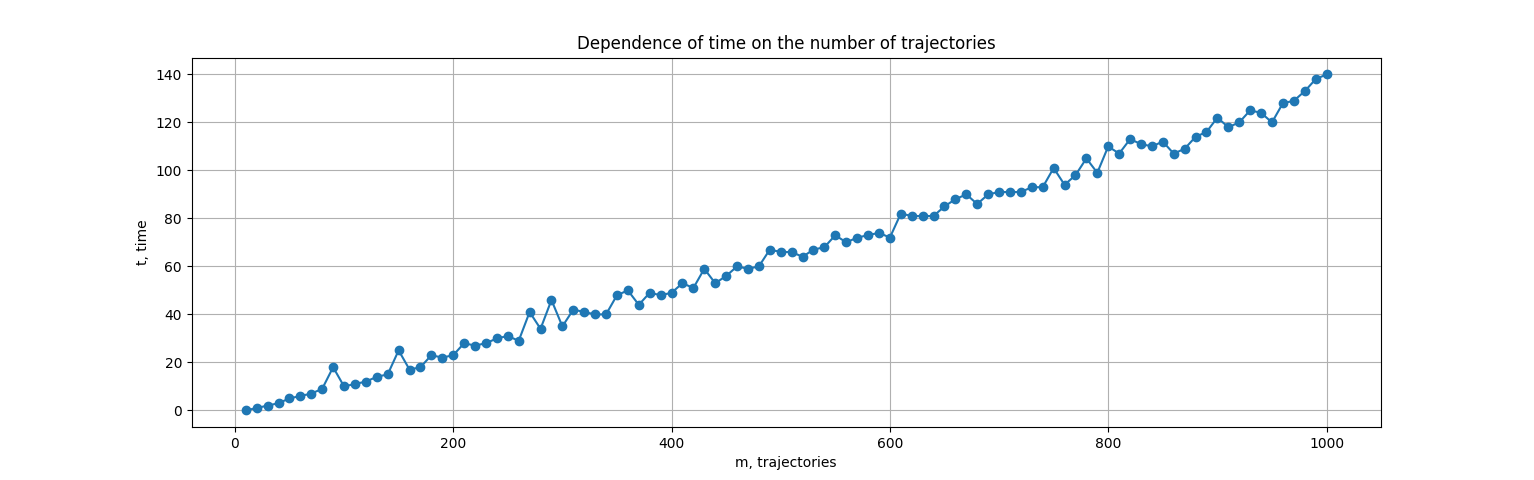
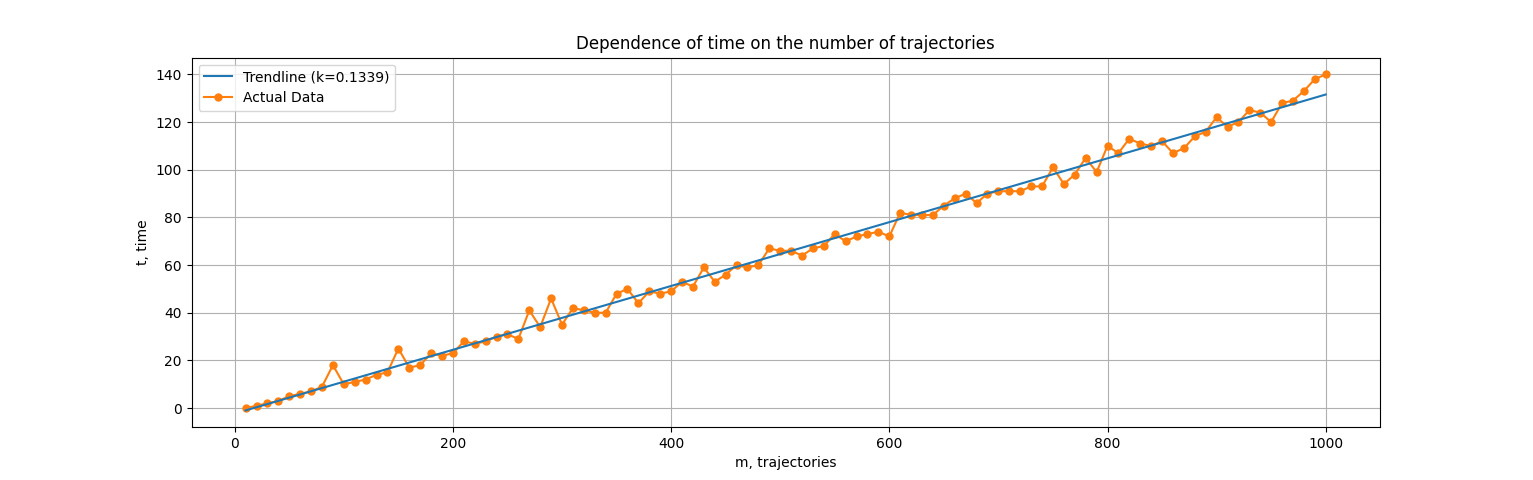
внес правки в анализ зависимости времени от числа траекторий

diff --git a/Time/main.py b/Time/main.py
@@ -1,7 +1,8 @@
 import json
 import matplotlib.pyplot as plt
+import numpy as np
 
-json_file_path = "C:\Qt\Projects\CIR\Data\Plots\RK3\\time.json"
+json_file_path = r"C:\Qt\Projects\CIR\Data\Plots\TeylorMethod\time.json"
 
 with open(json_file_path, 'r') as file:
     data = json.load(file)
@@ -10,9 +11,20 @@ with open(json_file_path, 'r') as file:
 iterations = [result["numberOfIterations"] for result in results]
 elapsed_times = [result["elapsedTime"] for result in results]
 
-plt.plot(iterations, elapsed_times, marker='o', linestyle='-')
+# линейная аппроксимация
+coefficients = np.polyfit(iterations, elapsed_times, 1)
+polynomial = np.poly1d(coefficients)
+
+# угловой коэффициент
+k = coefficients[0]
+print(f"Угловой коэффициент (k): {k}")
+
+plt.plot(iterations, polynomial(iterations), linestyle='-', label=f'Trendline (k={k:.4f})', zorder=99)
+plt.plot(iterations, elapsed_times, marker='o', markersize=5, linestyle='-', label='Actual Data')
+
 plt.title('Dependence of time on the number of trajectories')
 plt.xlabel('m, trajectories')
 plt.ylabel('t, time')
 plt.grid(True)
+plt.legend()
 plt.show()
